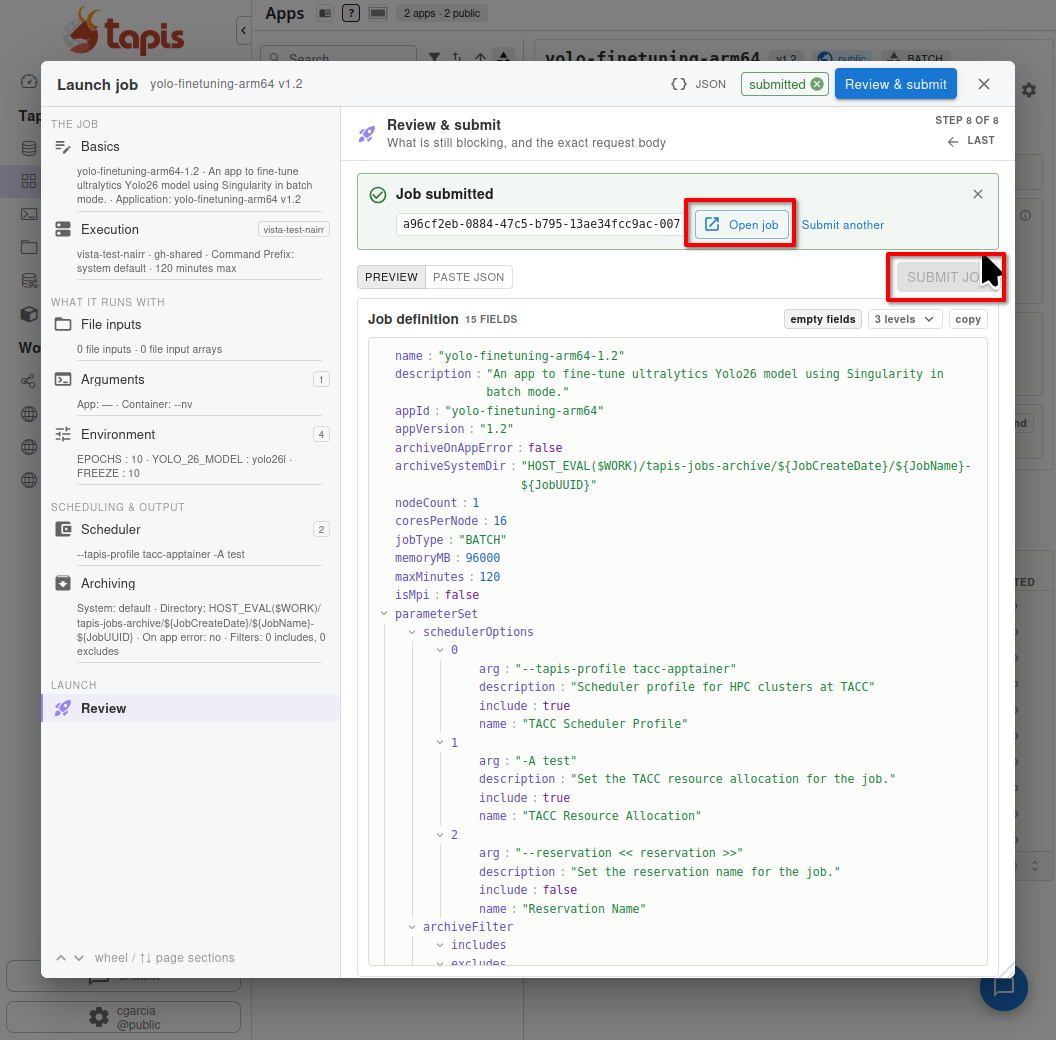
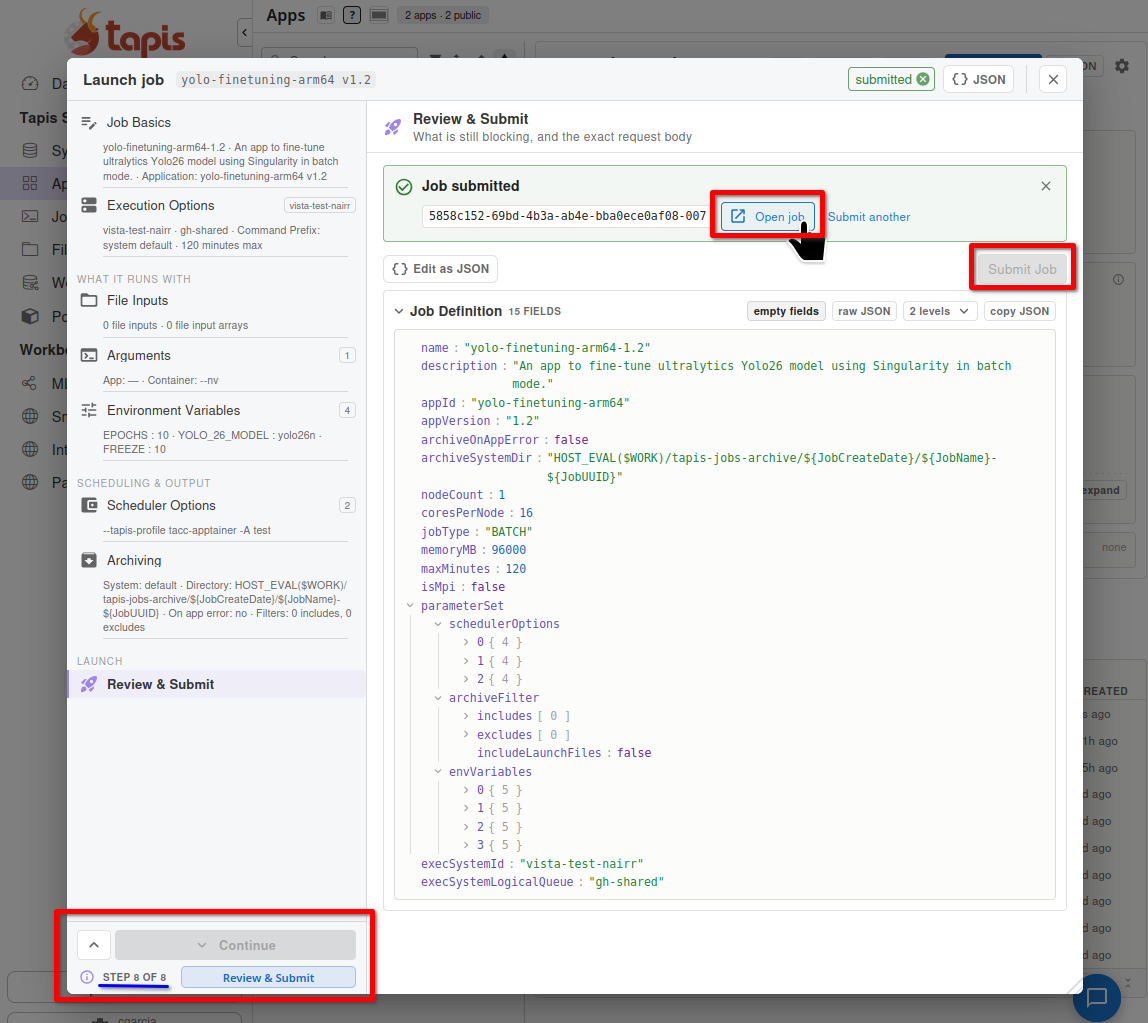
docs(tutorials): refresh section 2-4 screenshots
- Section 2: TMS, Files, and FlexServ app screenshots
- Section 3: guided job launcher screenshots (sec3)
- Section 4: fine-tuning job screenshots (sec8)
- Supersedes main's sec3/image10 and sec8/image8-10

Changed region(s): [[0.0, 0.0, 1.0, 1.0]]

diff --git a/tutorials/Intro_Tapis/02-initial-tapis-ui.md b/tutorials/Intro_Tapis/02-initial-tapis-ui.md
@@ -32,7 +32,7 @@ In this tutorial, instead of creating systems from scratch, we will use a **publ
 
 ### Step 2.3: Navigate the Systems List
 
-When you log in to TapisUI and click on **Systems** from the left-hand menu, you should see two public systems available to you. This systems have been pre-registered for the tutorial.
+When you log in to TapisUI and click on **Systems** from the left-hand menu, you should see two public systems available to you. These systems have been pre-registered for the tutorial, **vista-test-nairr** and **Stampede3-Public**.
 
 ![TMS Unauthenticated](/tutorials/images/TMS-unauthenticated.png)
 
@@ -49,11 +49,11 @@ Click on **Authenticate with TMS Keys** on the Vista system.
 
 Once your TMS credentials are added, your system is ready to use.
 
-### Step 2.5: Use "View Files" to Get to Files
+### Step 2.5: Use "Browse Files" to Get to Files
 
-After authenticating, you can verify your system access by clicking the **View Files** button, which will take you to the file listing on the Vista system.
+After authenticating, you can verify your system access by clicking the **Browse Files** button, which will take you to the file listing on the Vista system. Press the Systems sidebar tab **(1)**, click the system to browse **(2)**, click browse files **(3)** and optionally view files in current page at **(4)**.
 
-![View Files](/tutorials/images/ViewFiles.png)
+![Browse Files](/tutorials/images/ViewFiles.png)
 
 ---
 
@@ -63,13 +63,13 @@ The Tapis Files service provides a unified interface for managing files across a
 
 ### Step 2.6: Navigate the Files in Vista System
 
-From the left-hand menu, click on the **Files** tab and select the Vista system. You should see a listing of files on the system. You can navigate directories, view file details, and open files directly.
+From the left-hand menu, click on the **Files** sidebar tab **(1)** and select the Vista system **(2)**. You should see a listing of files on the system. You can navigate directories, view file details, and open files directly.
 
 ![System View Files](/tutorials/images/System_View_Files.png)
 
 ### Step 2.7: Test Uploading a File
 
-Try uploading a file to the Vista system using the upload functionality in the Files tab. This confirms that your credentials are working and that you have write access to the system. Uploaded file will be available in HOME directory of the Vista system.
+Try uploading a file to the Vista system using the upload functionality in the Files tab. Either drag-and-drop to upload or press the toolbar upload button. This confirms that your credentials are working and that you have write access to the system. Uploaded files will be available in directory specified on the Vista system.
 
 ---
 
@@ -81,11 +81,11 @@ In this tutorial, instead of creating an application from scratch, we will use t
 
 ### Step 2.8: Navigate to the Tapis Apps List
 
-Click on **Apps** from the left-hand menu in TapisUI. You will see a list of available applications. If users have private apps they can toggle between "My Apps" and "Public Apps" to see the full list.
+Click on **Apps** on the sidebar in TapisUI **(1)**. You will see a list of available applications. If users have private apps they can filter between "Public Apps" and "Mine & Shared Apps" along with other filters.
 
 ### Step 2.9: Find the FlexServ Public App
 
-Look for the application **FlexServ-1.4.0 version 1.4.0** in the public apps list. FlexServ is a TACC-owned inference server for running AI models on HPC systems. It has been pre-registered as a public app for all users to submit jobs.
+Look for the application **FlexServ-1.4.0 version 1.4.0** **(2)** in the public apps list. FlexServ is a TACC-owned inference server for running AI models on HPC systems. It has been pre-registered as a public app for all users to submit jobs.
 
 ![FlexServ Application](/tutorials/images/2.9_Flexserv_app.png)
 

diff --git a/tutorials/Tapis_FlexServ/01b-running-flexserv.md b/tutorials/Tapis_FlexServ/01b-running-flexserv.md
@@ -32,7 +32,7 @@ For detailed instructions on how to add TMS credentials, please refer to this
 
 ![TMS Authenticated](/tutorials/images/TMS-authenticated.png)
 
-After completing the authentication, you can now view files on Vista by clicking on the `View Files` button. If you can view the files, that means you have successfully added your TMS credentials and you are authenticated to access the Vista system.
+After completing the authentication, you can now browse files on Vista by clicking on the `Browse Files` button **(3)** If you can view the files, that means you have successfully added your TMS credentials and you are authenticated to access the Vista system.
 ![View Files](/tutorials/images/ViewFiles.png)
 
 
@@ -45,7 +45,7 @@ In the Tapis UI, you should navigate to `Apps` and you should see the Flex Serve
 
 **1. Initiate Submission**
 
-In the Tapis UI, navigate to the application **FlexServ-1.4.0**, click the Submit Job button, and select **Use Guided Job Launcher**.
+In the Tapis UI, navigate to the application **FlexServ-1.4.0**, click the Submit Job button, and select **Use Guided Job Launcher (V2)**.
 
 ![Step 1a: Select Submit with JSON](/tutorials/images/sec3/image2.png)
 
@@ -53,7 +53,7 @@ In the Tapis UI, navigate to the application **FlexServ-1.4.0**, click the Submi
 
 **2. Configure the FlexServ Job**
 
-First you will see Job summary, press **Continue**.
+First you will see Job Basic, press **Continue** at the bottom left. Here you can reverse page, continue, skip to end, press the bottom left hint button or select the steps in the side panel to move between pages.
 
 ![Step 2a: Job Summary](/tutorials/images/sec3/image4.png)
 
